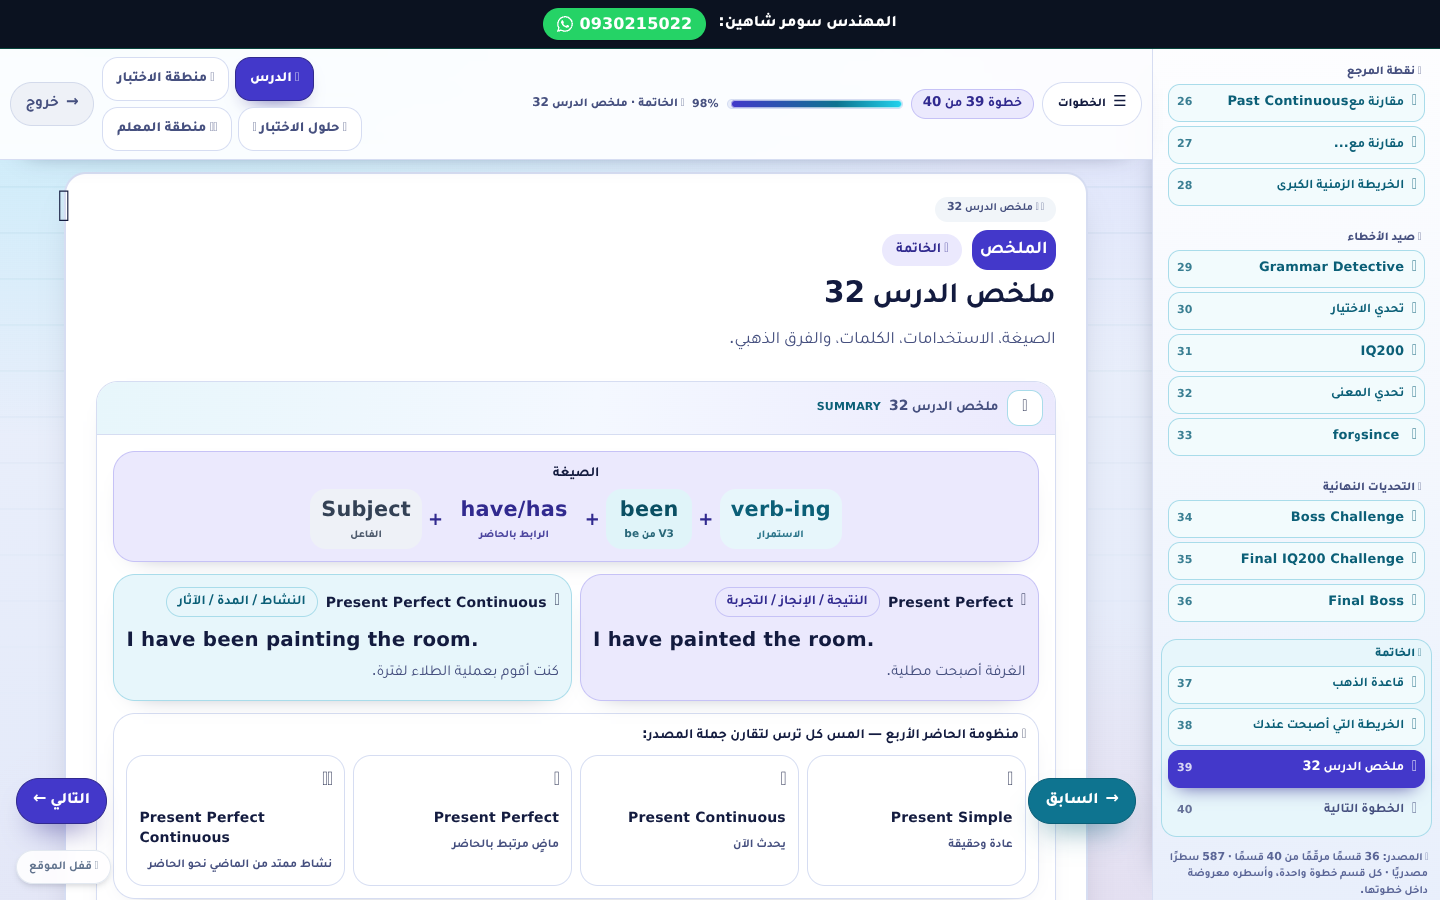
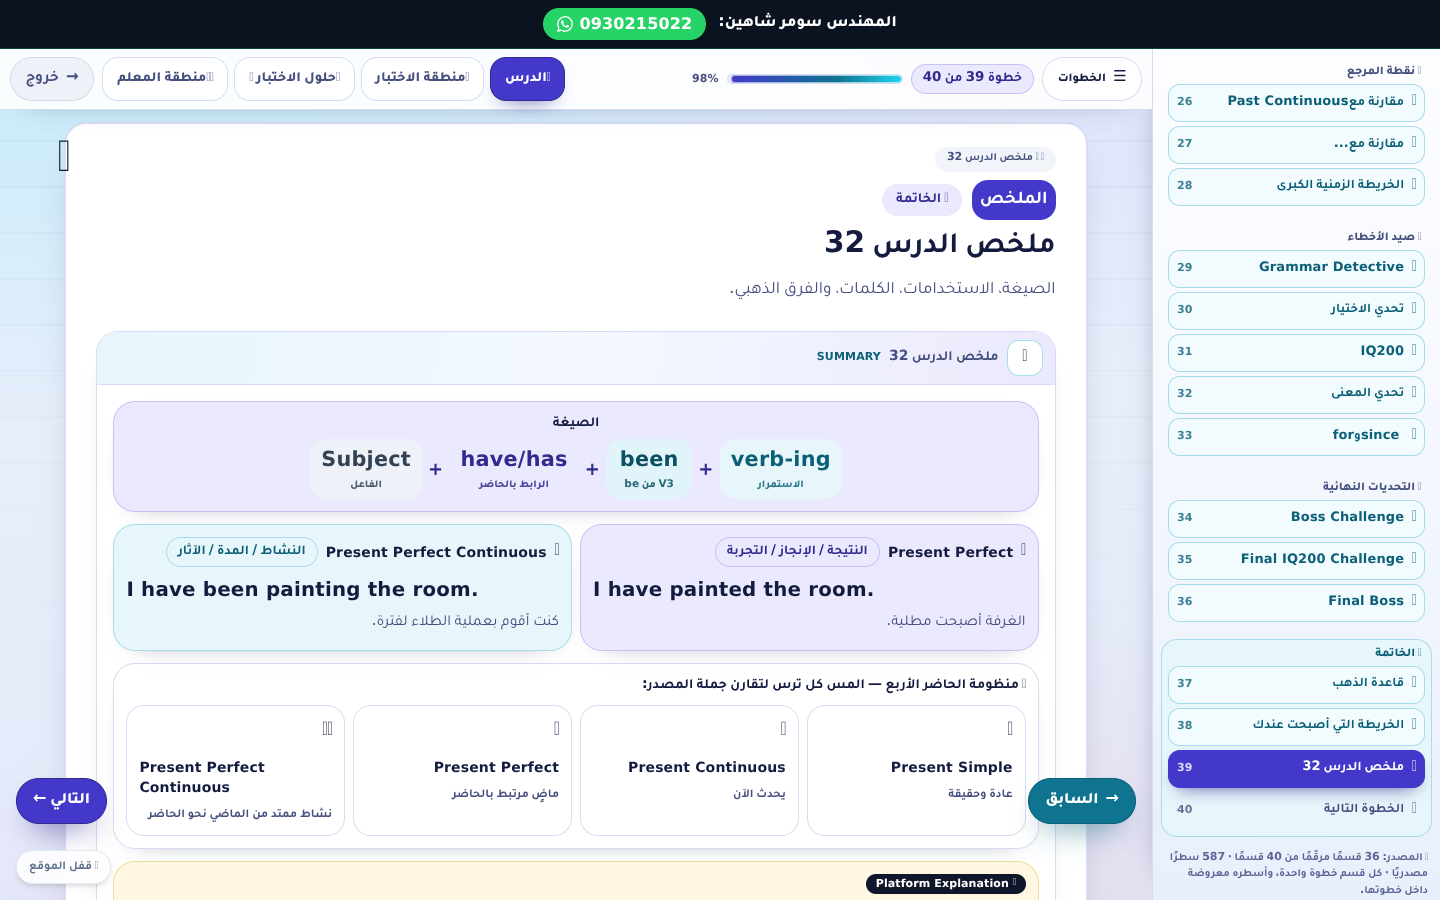
Lesson 32 polish: one-row compact header on laptops, phone-friendly area tabs, clearer source-deck heading
- Step breadcrumb now only on >=2xl so the four area tabs + progress fit a
  single header row at laptop widths (header stays under 130px everywhere).
- Area tabs show icon + screen-reader label on phones, full label from sm up
  (label remains in the accessibility tree at every size).
- Source deck heading reads «سجل المصدر داخل هذه الخطوة» with honest counts
  (source lines / English examples / translated) instead of zero-filled stats.
- Regenerated docs/lesson32-visual evidence: 247 browser checks, 0 failures.

diff --git a/src/lessons/lesson32/Lesson32.tsx b/src/lessons/lesson32/Lesson32.tsx
@@ -260,7 +260,7 @@ export default function Lesson32({ onExit }: { onExit: () => void }) {
               </div>
             )}
 
-            <span className="hidden min-w-0 flex-1 truncate text-xs font-black text-[#46507f] xl:block">
+            <span className="hidden min-w-0 flex-1 truncate text-xs font-black text-[#46507f] 2xl:block">
               <Rich text={area === "lesson" ? `${SECTIONS_32.find((s) => s.id === slide.section)?.label ?? ""} · ${navLabel32(slide.title)}` : areaLabel} />
             </span>
 
@@ -274,7 +274,9 @@ export default function Lesson32({ onExit }: { onExit: () => void }) {
                   aria-current={area === a.id ? "true" : undefined}
                   className={`l32-tab rounded-2xl px-2.5 text-xs font-black sm:px-3.5 sm:text-sm ${FOCUS32}`}
                 >
-                  <span aria-hidden>{a.emoji}</span> <Rich text={a.ar} />
+                  <span aria-hidden>{a.emoji}</span>
+                  <span className="sr-only sm:hidden"><Rich text={a.ar} /></span>
+                  <span className="hidden sm:inline"><Rich text={a.ar} /></span>
                   {a.id === "solutions" && !solutionsUnlocked && <span aria-hidden> 🔒</span>}
                 </button>
               ))}

diff --git a/src/lessons/lesson32/kit32.tsx b/src/lessons/lesson32/kit32.tsx
@@ -225,8 +225,10 @@ export function SourceDeck32({ blocks, sectionTitle }: { blocks: DeckBlock32[]; 
   return (
     <section className="l32-deck" aria-label="أمثلة المصدر وشرحها لهذه الخطوة">
       <div className="l32-deck-head">
-        <span className="l32-kicker">📚 أمثلة المصدر وشرحها</span>
-        <span className="l32-chip"><Rich text={`${blocks.length} سطرًا · ${examples} مثالًا · ${translated} مع ترجمة`} /></span>
+        <span className="l32-kicker">📚 سجل المصدر داخل هذه الخطوة</span>
+        <span className="l32-chip">
+          <Rich text={`${blocks.length} سطرًا مصدريًا${examples > 0 ? ` · ${examples} مثالًا إنجليزيًا` : ""}${translated > 0 ? ` · ${translated} منها بترجمة عربية` : ""}`} />
+        </span>
         {sectionTitle && <span className="l32-chip l32-chip-indigo"><Rich text={sectionTitle} /></span>}
       </div>
       <div className="grid gap-1.5 md:grid-cols-2">
